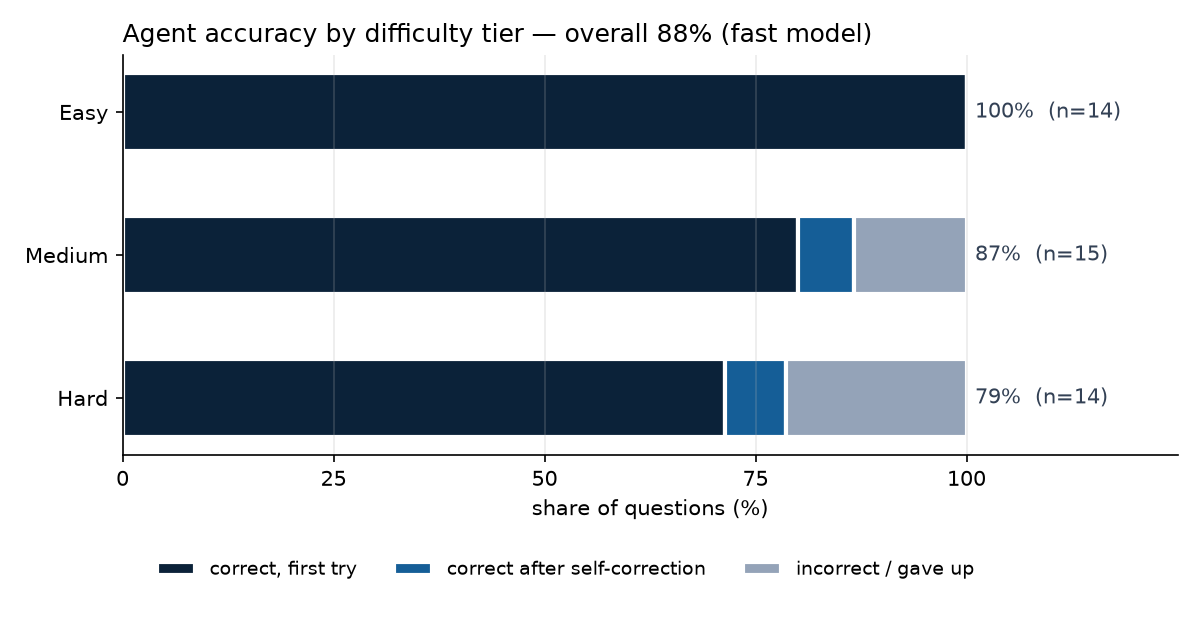
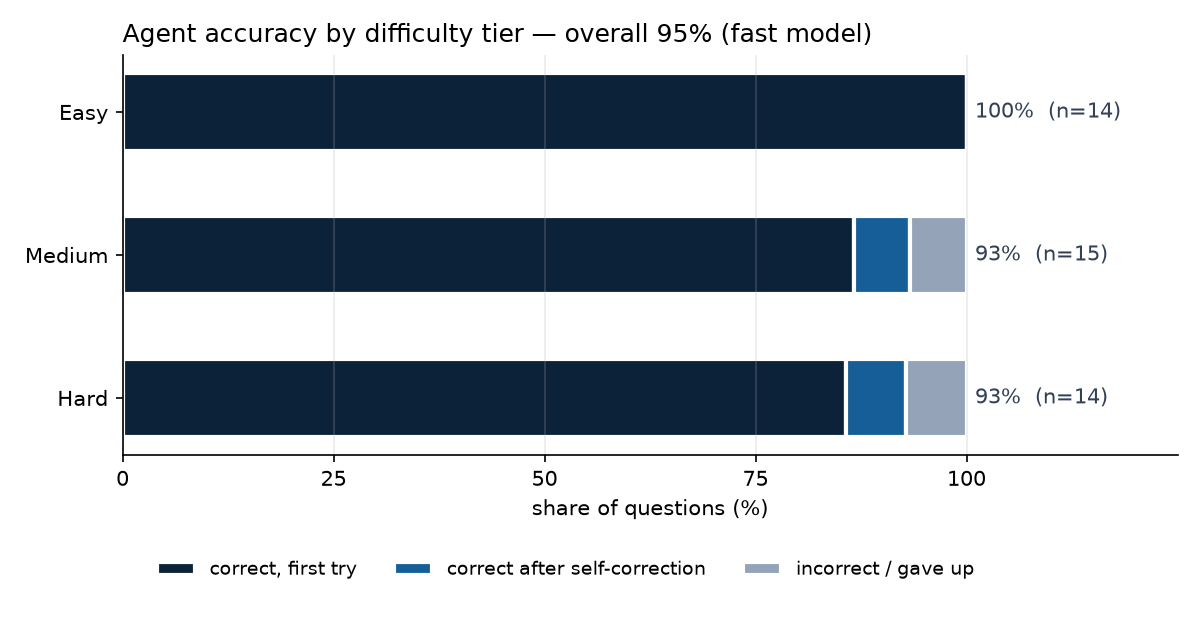
fix(agent): expose es schema + self-describing rule catalog to the NL agent — defect found by benchmark (v1.0.1, 122 tests)

diff --git a/backend/app/eval/questions.py b/backend/app/eval/questions.py
@@ -161,10 +161,12 @@ QUESTIONS: list[BenchQuestion] = [
                   "SELECT c.name, count(*) AS n FROM erp.projects p JOIN erp.clients c USING (client_id) "
                   "GROUP BY c.name ORDER BY n DESC, c.name LIMIT 1", "top1"),
     BenchQuestion("M11", "medium", "logistics",
-                  "What is the total freight cost in TND of all shipments delivered to Libya?",
+                  "What is the total freight cost in TND of all shipments bound for Libya, "
+                  "whatever their current status?",
                   "SELECT round(sum(s.freight_cost*f.rate_to_tnd)::numeric,0) FROM erp.shipments s "
                   "JOIN erp.sites st ON st.site_id=s.destination_site_id "
-                  "JOIN erp.fx_rates f ON f.currency=s.currency WHERE st.country='Libye'", "scalar"),
+                  "JOIN erp.fx_rates f ON f.currency=s.currency WHERE st.country='Libye'", "scalar",
+                  notes="AUDIT v1: 'delivered to Libya' was read as status='delivered' (defensible); reworded"),
     BenchQuestion("M12", "medium", "procurement",
                   "How many supplier quotations scored below the technical evaluation threshold of 70?",
                   "SELECT count(*) FROM erp.supplier_quotations WHERE tbe_score < 70", "count"),
@@ -181,9 +183,11 @@ QUESTIONS: list[BenchQuestion] = [
                   "WHERE q.tbe_score IS NOT NULL GROUP BY sup.name, sup.supplier_code "
                   "HAVING count(*) >= 10 ORDER BY t DESC LIMIT 1", "top1"),
     BenchQuestion("M15", "medium", "finance",
-                  "How many payments are currently overdue?",
+                  "How many payments are still unpaid and past their due date as of today?",
                   "SELECT count(*) FROM erp.payments WHERE paid_date IS NULL AND due_date < CURRENT_DATE",
-                  "count", notes="status column also says 'overdue'; both definitions agree"),
+                  "count", notes="AUDIT v1: asked 'currently overdue'; agent used the status flag "
+                        "(1), truth used the clock (15) — the flag is a frozen-world snapshot. "
+                        "Reworded to the clock definition."),
 
     # ------------------------------------------------------------ HARD
     BenchQuestion("H01", "hard", "procurement",
@@ -199,9 +203,9 @@ QUESTIONS: list[BenchQuestion] = [
                   "SELECT supplier_name, shipment_ref, probability FROM ml.delivery_risk "
                   "ORDER BY probability DESC LIMIT 1", "top1", tags=("ml",)),
     BenchQuestion("H03", "hard", "expert",
-                  "How many critical alerts are currently active (not resolved)?",
+                  "How many critical alerts are unresolved, counting both active and acknowledged ones?",
                   "SELECT count(*) FROM es.alerts WHERE severity='critical' AND status<>'resolved'",
-                  "count", tags=("expert",)),
+                  "count", notes="AUDIT v1: 'currently active' collided with enum 'active'; acknowledged alerts excluded", tags=("expert",)),
     BenchQuestion("H04", "hard", "logistics",
                   "Which calendar year had the lowest on-time delivery rate?",
                   "SELECT extract(year FROM s.actual_delivery_date)::int AS y, "
@@ -244,12 +248,14 @@ QUESTIONS: list[BenchQuestion] = [
                   "WHERE category='steel' AND kind='forecast' ORDER BY month LIMIT 1",
                   "scalar", tolerance=0.02, tags=("ml",)),
     BenchQuestion("H10", "hard", "finance",
-                  "Which supplier has the largest total amount of overdue payments in TND?",
+                  "Which supplier has the largest total value in TND of payments that are still "
+                  "unpaid and past their due date as of today?",
                   "SELECT sup.name, sup.supplier_code, round(sum(pay.amount*f.rate_to_tnd)::numeric,0) AS v "
                   "FROM erp.payments pay JOIN erp.purchase_orders po USING (po_id) "
                   "JOIN erp.suppliers sup USING (supplier_id) JOIN erp.fx_rates f ON f.currency=pay.currency "
                   "WHERE pay.paid_date IS NULL AND pay.due_date < CURRENT_DATE "
-                  "GROUP BY sup.name, sup.supplier_code ORDER BY v DESC LIMIT 1", "top1"),
+                  "GROUP BY sup.name, sup.supplier_code ORDER BY v DESC LIMIT 1", "top1",
+                  notes="AUDIT v1: status-flag vs clock ambiguity, same root as M15"),
     BenchQuestion("H11", "hard", "logistics",
                   "What is the on-time delivery rate, as a percentage, for shipments from "
                   "foreign (non-Tunisian) suppliers?",
@@ -263,11 +269,11 @@ QUESTIONS: list[BenchQuestion] = [
                   "JOIN erp.fx_rates f ON f.currency=me.currency GROUP BY a.category "
                   "ORDER BY v DESC LIMIT 1", "top1"),
     BenchQuestion("H13", "hard", "expert",
-                  "Which suppliers are currently flagged by the expert system for low "
-                  "on-time delivery? List them.",
+                  "Which suppliers have an unresolved expert-system alert (active or acknowledged) "
+                  "for low on-time delivery? List them.",
                   "SELECT sup.name, a.entity_ref FROM es.alerts a JOIN erp.suppliers sup "
                   "ON sup.supplier_code=a.entity_ref WHERE a.rule_code='SUPPLIER_LOW_OTD' "
-                  "AND a.status<>'resolved' ORDER BY sup.name", "set",
+                  "AND a.status<>'resolved' ORDER BY sup.name", "set", notes="AUDIT v1: 'currently flagged' -> status='active'; acknowledged alert dropped",
                   tags=("expert", "story")),
     BenchQuestion("H14", "hard", "tendering",
                   "What is the total value in TND of proposals we won during 2025?",

diff --git a/backend/tests/test_expert.py b/backend/tests/test_expert.py
@@ -132,3 +132,22 @@ def test_agent_reader_can_select_but_not_write():
         assert c.execute("SELECT count(*) FROM es.alerts").fetchone()[0] > 0
         with pytest.raises(psycopg.errors.InsufficientPrivilege):
             c.execute("DELETE FROM es.alerts")
+
+
+def test_agent_schema_doc_exposes_expert_system():
+    """Regression for a defect found by the Phase 15 benchmark: es.alerts
+    was absent from the agent's schema document, so alert questions could
+    only be answered by guessing. The table, its status vocabulary and the
+    full rule catalog must all be visible to the agent."""
+    from app.agent.runner import _schema_doc
+    from app.expert.engine import ensure_ddl
+    from app.expert.rules import RULES
+    import app.agent.runner as runner
+    ensure_ddl()
+    runner._schema_cache = None            # force a fresh introspection
+    doc = _schema_doc()
+    assert "### es.alerts" in doc
+    assert "es.<table>" in doc             # the header tells the agent to qualify
+    for r in RULES:
+        assert r.code in doc, f"rule {r.code} not discoverable"
+    assert "'acknowledged'" in doc         # status vocabulary via CHECK

diff --git a/backend/app/db/introspection.py b/backend/app/db/introspection.py
@@ -13,7 +13,9 @@ import time
 import psycopg
 
 _SCHEMA = "erp"
-_SCHEMAS = ("erp", "ml")
+# es = expert-system alerts. Omitting it was a defect found by the Phase 15
+# benchmark: the agent was asked about alerts it had never been told exist.
+_SCHEMAS = ("erp", "ml", "es")
 
 _TABLES_SQL = """
 SELECT n.nspname AS schema_name, c.relname AS table_name,
@@ -127,9 +129,10 @@ def build_schema_doc(dsn: str) -> str:
         _attach_sample_values(cur, tables)
 
     parts: list[str] = [
-        f"PostgreSQL schemas `erp` (operational data) and `ml` "
-        f"(machine-learning outputs) — {len(tables)} tables. All queries "
-        "MUST use fully qualified names (erp.<table> / ml.<table>).\n"
+        f"PostgreSQL schemas `erp` (operational data), `ml` "
+        f"(machine-learning outputs) and `es` (expert-system alerts) — "
+        f"{len(tables)} tables. All queries MUST use fully qualified names "
+        "(erp.<table> / ml.<table> / es.<table>).\n"
     ]
     for name, info in tables.items():
         parts.append(f"### {info['schema']}.{name}")

diff --git a/backend/app/expert/engine.py b/backend/app/expert/engine.py
@@ -64,6 +64,14 @@ EXCEPTION WHEN duplicate_object THEN NULL; END $$;
 def ensure_ddl() -> None:
     with psycopg.connect(get_settings().app_dsn, autocommit=True) as c:
         c.execute(_DDL)
+    # keep the rule vocabulary discoverable by the NL agent
+    catalog = "; ".join(f"{r.code} = {r.name} [{r.severity}]" for r in RULES)
+    with psycopg.connect(get_settings().app_dsn, autocommit=True) as conn:
+        # COMMENT is a utility statement: no bind parameters, so quote as a
+        # literal (psycopg escapes it) rather than interpolating a string
+        from psycopg import sql
+        conn.execute(sql.SQL("COMMENT ON COLUMN es.alerts.rule_code IS {}").format(
+            sql.Literal(f"Rule that raised the alert. One of: {catalog}")))
 
 
 def _render(template: str, row: dict) -> str:

diff --git a/backend/bench_results/agent_bench_smart.md b/backend/bench_results/agent_bench_smart.md
@@ -1,31 +1,30 @@
 # Agent benchmark — llm tier `smart`
 
-**Overall accuracy: 88.4%** (38/43) · first-try 38 · rescued by self-correction 0 · wrong 5 · gave up 0 · median latency 6984.1 ms
+**Overall accuracy: 90.7%** (39/43) · first-try 39 · rescued by self-correction 0 · wrong 4 · gave up 0 · median latency 6405.5 ms
 
 | tier | n | accuracy | first-try | rescued | wrong | gave up |
 |---|---|---|---|---|---|---|
 | easy | 14 | 100.0% | 14 | 0 | 0 | 0 |
 | medium | 15 | 86.7% | 13 | 0 | 2 | 0 |
-| hard | 14 | 78.6% | 11 | 0 | 3 | 0 |
+| hard | 14 | 85.7% | 12 | 0 | 2 | 0 |
 
 | topic | n | accuracy |
 |---|---|---|
 | assets | 2 | 100.0% |
-| expert | 2 | 0.0% |
+| expert | 2 | 100.0% |
 | finance | 4 | 50.0% |
-| logistics | 13 | 92.3% |
+| logistics | 13 | 100.0% |
 | ml | 2 | 100.0% |
-| procurement | 15 | 100.0% |
+| procurement | 15 | 86.7% |
 | tendering | 5 | 100.0% |
 
-**Self-correction:** 1 questions needed at least one SQL fix; 0 of those ended correct (rescue rate 0.0%).
+**Self-correction:** 0 questions needed at least one SQL fix; 0 of those ended correct (rescue rate None%).
 
 ## Failures
 
 | qid | tier | outcome | reason |
 |---|---|---|---|
-| H03 | hard | wrong | expected 4, numeric cells seen [0] |
+| H01 | hard | wrong | expected 1.495, numeric cells seen [] |
 | H10 | hard | wrong | expected entity is absent |
-| H13 | hard | wrong | missing entity 'Milano Valvole Industriali' |
-| M11 | medium | wrong | expected 7.96249e+06, numeric cells seen [Decimal('7764090.68')] |
+| M08 | medium | wrong | expected 4, numeric cells seen [2, 1, 1] |
 | M15 | medium | wrong | expected 15, numeric cells seen [1] |

diff --git a/backend/bench_results/agent_bench_fast.md b/backend/bench_results/agent_bench_fast.md
@@ -1,19 +1,19 @@
 # Agent benchmark — llm tier `fast`
 
-**Overall accuracy: 88.4%** (38/43) · first-try 36 · rescued by self-correction 2 · wrong 5 · gave up 0 · median latency 3443.7 ms
+**Overall accuracy: 95.3%** (41/43) · first-try 39 · rescued by self-correction 2 · wrong 2 · gave up 0 · median latency 3070.6 ms
 
 | tier | n | accuracy | first-try | rescued | wrong | gave up |
 |---|---|---|---|---|---|---|
 | easy | 14 | 100.0% | 14 | 0 | 0 | 0 |
-| medium | 15 | 86.7% | 12 | 1 | 2 | 0 |
-| hard | 14 | 78.6% | 10 | 1 | 3 | 0 |
+| medium | 15 | 93.3% | 13 | 1 | 1 | 0 |
+| hard | 14 | 92.9% | 12 | 1 | 1 | 0 |
 
 | topic | n | accuracy |
 |---|---|---|
 | assets | 2 | 100.0% |
-| expert | 2 | 0.0% |
+| expert | 2 | 100.0% |
 | finance | 4 | 50.0% |
-| logistics | 13 | 92.3% |
+| logistics | 13 | 100.0% |
 | ml | 2 | 100.0% |
 | procurement | 15 | 100.0% |
 | tendering | 5 | 100.0% |
@@ -24,8 +24,5 @@
 
 | qid | tier | outcome | reason |
 |---|---|---|---|
-| H03 | hard | wrong | expected 4, numeric cells seen [0] |
 | H10 | hard | wrong | expected entity is absent |
-| H13 | hard | wrong | expected 3 rows, got 2 |
-| M11 | medium | wrong | expected 7.96249e+06, numeric cells seen [Decimal('7764090.68')] |
 | M15 | medium | wrong | expected 15, numeric cells seen [1] |
